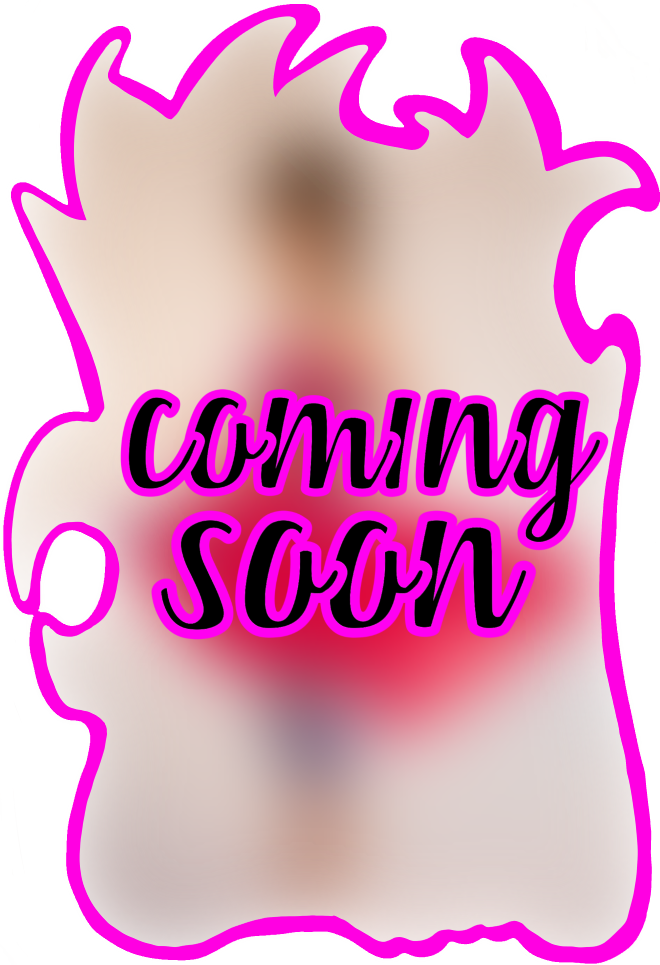
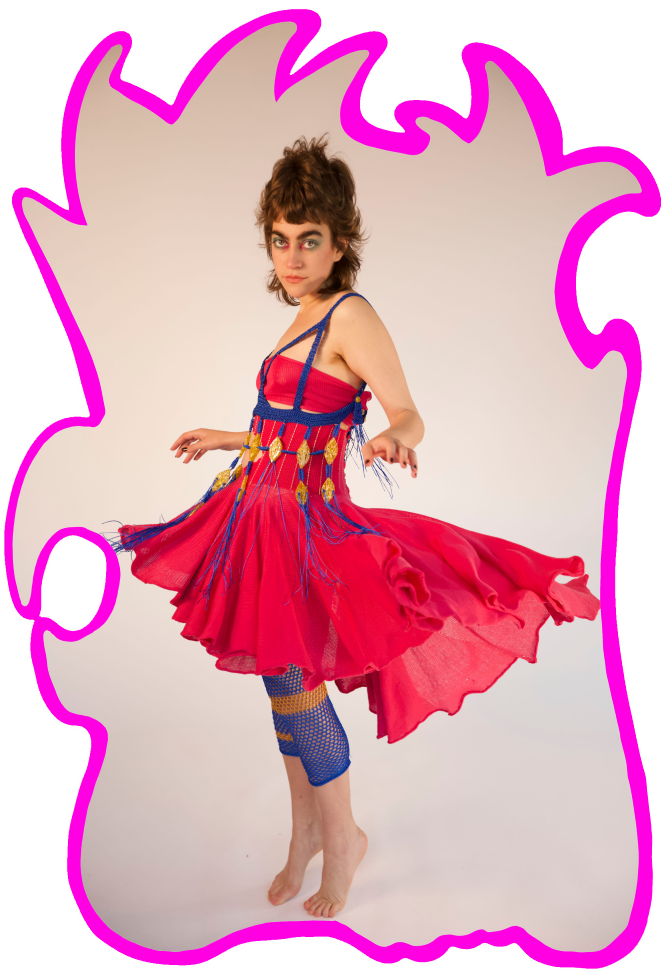
caballo andaluz fix, 2 projects on mobile fix

diff --git a/shop.html b/shop.html
@@ -1,0 +1,128 @@
+<html>
+<head>
+<link rel="icon" type="image/x-icon" href="favicon.ico">
+  <title>Shop - Acien</title>
+  <!-- fontawesome-->
+  <script src="https://kit.fontawesome.com/581d00b336.js" crossorigin="anonymous"></script>
+<!-- JavaScript Bundle with Popper -->
+<script src="https://cdn.jsdelivr.net/npm/bootstrap@5.1.3/dist/js/bootstrap.bundle.min.js" integrity="sha384-ka7Sk0Gln4gmtz2MlQnikT1wXgYsOg+OMhuP+IlRH9sENBO0LRn5q+8nbTov4+1p" crossorigin="anonymous"></script>
+<!-- CSS only -->
+<link href="https://cdn.jsdelivr.net/npm/bootstrap@5.1.3/dist/css/bootstrap.min.css" rel="stylesheet" integrity="sha384-1BmE4kWBq78iYhFldvKuhfTAU6auU8tT94WrHftjDbrCEXSU1oBoqyl2QvZ6jIW3" crossorigin="anonymous">
+<link rel="stylesheet" type="text/css" href="css/projects.css">
+<script type="text/javascript" src="js/main.js"></script>
+<meta name="viewport" content="width=device-width, initial-scale=1">
+<!-- Global site tag (gtag.js) - Google Analytics -->
+<script async src="https://www.googletagmanager.com/gtag/js?id=G-0M4GEK1QY7"></script>
+<script>
+  window.dataLayer = window.dataLayer || [];
+  function gtag(){dataLayer.push(arguments);}
+  gtag('js', new Date());
+
+  gtag('config', 'G-0M4GEK1QY7');
+</script>
+</head>
+<body>
+<!-- add an alert if you are on mozilla, it will look very weird for you, switch browser for your own good -->
+<!-- add alert rotate if rotated screen on phone ; if height is very low -->
+ 
+          <nav class="navbar navbar-expand-xl py-0 sticky-top white-bg-1">
+            <a class="navbar-brand d-xl-none" href="/"><img src="images/logo.png" style="max-height:70px;"></a>
+            <button class="navbar-toggler" type="button" data-toggle="collapse" data-target="#navbarSupportedContent" aria-controls="navbarSupportedContent" aria-expanded="false" aria-label="Toggle navigation">
+              <!-- The overlay -->
+    <div id="myNav" class="overlay">
+      <!-- Button to close the overlay navigation -->
+      <a href="javascript:void(0)" class="closebtn" onclick="closeNav()">&times;</a>
+      <!-- Overlay content -->
+      <div class="overlay-content">
+        <a href="/">Home</a>
+        <a href="projects">Projects</a>
+        <a href="contact">Contact</a>
+        <a href="about">About</a>
+        <a href="press">Press</a>
+      </div>
+    </div>
+    <!-- Use any element to open/show the overlay navigation menu -->
+    <span onclick="openNav()" style="font-size: 25px;"><i class="fas fa-bars"></i></span>
+            </button>
+        <div class="collapse navbar-collapse" id="myNavbarToggler7">
+            <ul class="navbar-nav mx-auto">
+                <li class="nav-item">
+                    <a class="nav-link" href="projects">Projects</a>
+                </li>
+                <li class="nav-item">
+                    <a class="nav-link" href="contact">Contact</a>
+                </li>
+                <a class="d-none d-lg-block" href="/"><img src="images/logo.png" style="max-height:70px;"></a>
+                <li class="nav-item">
+                    <a class="nav-link" href="about">About</a>
+                </li>
+                <li class="nav-item">
+                    <a class="nav-link" href="press">Press</a>
+                </li>
+            </ul>
+        </div>
+          </nav>
+        <div class="container">
+            <div class="row">
+                <div class="text-center">
+                  <p></p>
+                    <p class="white-purple">Review our first collection of items available for the purchase!
+                       Be one of the first ones to have some <i class="black">exclusive limited regenerative</i>
+                       (link to an article about regenerative fashion) products</p>
+                </div>
+            </div>
+            <div class="row">
+                <div class="col text-center">
+                    <a class="projectLink" data-bs-toggle="modal" data-bs-target="#exampleModal"><img class="fit_width_25 zoomIn2" src="shop/item.jpg"><p class="projName">SUPER SEXY MATERIAL YUMMY</p><p class="projDate">GLOVE</p></a>
+                    <!-- Button trigger modal -->
+  <!-- Modal -->
+  <div class="modal fade" id="exampleModal" tabindex="-1" aria-labelledby="exampleModalLabel" aria-hidden="true">
+    <div class="modal-dialog modal-xl bg-black">
+      <div class="modal-content">
+        <div class="modal-header">
+          <h5 class="modal-title" id="exampleModalLabel">Super sexy glove</h5>
+          <button type="button" class="btn-close" data-bs-dismiss="modal" aria-label="Close"></button>
+        </div>
+        <div class="modal-body">
+            <div class="container">
+            <div class="row">
+                <div class="col-md-4">
+                    <img class="fit_width" src="shop/item.jpg">
+                </div>
+                <div class="col-md-4">
+                    <p class="black">Wow, what an item</p>
+                    <p class="black">Incredible</p>
+                    <p class="black">Aweosme</p>
+                    <p class="black">Enquire! NOW!</p>
+                </div>
+                <div class="col-md-4">
+                  <iframe class="form" src="https://docs.google.com/forms/d/e/1FAIpQLSe49T0LJ4EB-JF_2XRqpAo_oIGvPYp7BvXqo-clVGkqdBFyTA/viewform?embedded=true" width="100%" height="100%" frameborder="0" marginheight="0" marginwidth="0">Loading…</iframe>
+                </div>
+            </div></div>
+        </div>
+        <div class="modal-footer">
+          <button type="button" class="btn btn-dark" data-bs-dismiss="modal">Close</button>
+        </div>
+      </div>
+    </div>
+  </div>
+  <!-- Modal End -->
+                </div>
+            </div>
+        </div>
+      </div>
+  <footer class="text-center text-white white-bg-1">
+    <!-- Grid container -->
+    <div class="container pt-2">
+      <!-- Section: Social media -->
+        <!-- Mail -->
+        <a href="mailto:info@acien.es"><i class="btn fa-solid fa-envelope fa-lg footerIcon"></i></a>
+        <!-- Instagram -->
+        <a href="https://instagram.com/aciensilvi" target="blank"><i class="btn fa-brands fa-instagram fa-lg footerIcon"></i></a>
+        <!-- Linkedin -->
+        <a href="https://www.linkedin.com/in/silvia-acien-parrilla-3a0296216" target="blank"><i class="btn fa-brands fa-linkedin fa-lg footerIcon"></i></a>
+      <!-- Section: Social media -->
+    </div>
+  </footer>
+    </body>
+</html>

diff --git a/projects.html b/projects.html
@@ -64,24 +64,17 @@
           </nav>
           <div class="container">
             <div class="row">
-  <div class="col-md text-center"><a class="projectLink" href="projects/evasion"><img class="fit_width zoomIn" src="images/12.png"><p class="projName">EVASION</p><p class="projDate">2022</p></a></div>
-  <div class="col-md text-center"><a class="projectLink" href="projects/menigilda"><img class="fit_width zoomIn" src="images/11.png"><p class="projName">MENIGILDA</p><p class="projDate">2022</p></a></div>
-  <div class="col-md text-center"><a class="projectLink" ><img class="fit_width zoomIn" src="images/10.png"><p class="projName">CABALLO ANDALUZ</p><p class="projDate">2021</p></a></div>
-              </div>
-              <div class="row">
-  <div class="col-md text-center"><a class="projectLink" href="projects/chelsea_football_club"><img class="fit_width zoomIn" src="images/8.png"><p class="projName">CHELSEA FC x NIKE</p><p class="projDate">2021</p></a></div>
-   <div class="col-md text-center"><a class="projectLink" href="projects/soportujar"><img class="fit_width zoomIn" src="images/7.png"><p class="projName">SOPORTUJAR</p><p class="projDate">2021</p></a></div>
-   <div class="col-md text-center"><a class="projectLink" href="projects/jaula_invisible"><img class="fit_width zoomIn" src="images/6.png"><p class="projName">JAULA INVISIBLE</p><p class="projDate">2020</p></a></div>
-  </div> 
-   <div class="row">
-  <div class="col-md text-center"><a class="projectLink" href="projects/gallina_de_ciudad"><img class="fit_width zoomIn" src="images/5.png"><p class="projName">GALLINA DE CIUDAD</p><p class="projDate">2020</p></a></div>
-  <div class="col-md text-center"><a class="projectLink" href="projects/overpopulated_world"><img class="fit_width zoomIn" src="images/4.png"><p class="projName">OVERPOPULATED WORLD</p><p class="projDate">2020</p></a></div>
-  <div class="col-md text-center"><a class="projectLink" href="projects/la_veneno"><img class="fit_width zoomIn" src="images/3.png"><p class="projName">LA VENENO</p><p class="projDate">2020</p></a></div>
-</div>  
-  <div class="row">
-   
-  <div class="col-md-4 text-center"><a class="projectLink" href="projects/francos_exhumation"><img class="fit_width zoomIn" src="images/2.png"><p class="projName">FRANCO'S EXHUMATION</p><p class="projDate">2019</p></a></div>
-  <div class="col-md-4 text-center"><a class="projectLink" href="projects/integrated_fight"><img class="fit_width zoomIn" src="images/1.png"><p class="projName">INTEGRATED FIGHT</p><p class="projDate">2018</p></a></div>
+  <div class="col-6 col-md-4 text-center"><a class="projectLink" href="projects/evasion"><img class="fit_width zoomIn" src="images/12.png"><p class="projName">EVASION</p><p class="projDate">2022</p></a></div>
+  <div class="col-6 col-md-4 text-center"><a class="projectLink" href="projects/menigilda"><img class="fit_width zoomIn" src="images/11.png"><p class="projName">MENIGILDA</p><p class="projDate">2022</p></a></div>
+  <div class="col-6 col-md-4 text-center"><a class="projectLink" href="projects/caballo_andaluz"><img class="fit_width zoomIn" src="images/10.png"><p class="projName">CABALLO ANDALUZ</p><p class="projDate">2021</p></a></div>
+  <div class="col-6 col-md-4 text-center"><a class="projectLink" href="projects/chelsea_football_club"><img class="fit_width zoomIn" src="images/8.png"><p class="projName">CHELSEA FC x NIKE</p><p class="projDate">2021</p></a></div>
+   <div class="col-6 col-md-4 text-center"><a class="projectLink" href="projects/soportujar"><img class="fit_width zoomIn" src="images/7.png"><p class="projName">SOPORTUJAR</p><p class="projDate">2021</p></a></div>
+   <div class="col-6 col-md-4 text-center"><a class="projectLink" href="projects/jaula_invisible"><img class="fit_width zoomIn" src="images/6.png"><p class="projName">JAULA INVISIBLE</p><p class="projDate">2020</p></a></div>
+  <div class="col-6 col-md-4 text-center"><a class="projectLink" href="projects/gallina_de_ciudad"><img class="fit_width zoomIn" src="images/5.png"><p class="projName">GALLINA DE CIUDAD</p><p class="projDate">2020</p></a></div>
+  <div class="col-6 col-md-4 text-center"><a class="projectLink" href="projects/overpopulated_world"><img class="fit_width zoomIn" src="images/4.png"><p class="projName">OVERPOPULATED WORLD</p><p class="projDate">2020</p></a></div>
+  <div class="col-6 col-md-4 text-center"><a class="projectLink" href="projects/la_veneno"><img class="fit_width zoomIn" src="images/3.png"><p class="projName">LA VENENO</p><p class="projDate">2020</p></a></div>
+  <div class="col-6 col-md-4 text-center"><a class="projectLink" href="projects/francos_exhumation"><img class="fit_width zoomIn" src="images/2.png"><p class="projName">FRANCO'S EXHUMATION</p><p class="projDate">2019</p></a></div>
+  <div class="col-6 col-md-4 text-center"><a class="projectLink" href="projects/integrated_fight"><img class="fit_width zoomIn" src="images/1.png"><p class="projName">INTEGRATED FIGHT</p><p class="projDate">2018</p></a></div>
         </div>
       </div>
       <!--

diff --git a/css/projects.css b/css/projects.css
@@ -149,12 +149,18 @@
     font-family: VelvetHeart;
     font-size: 80px;
     line-height: 0.6;
-  }
+  }  @media (max-width: 576px) {.projName{
+    font-size: 40px;
+    line-height: 0.5;
+  }}
   .projDate{
     font-family: VelvetHeart;
     font-size: 60px;
     line-height: 0.6;
-  }
+  }  @media (max-width: 576px) {.projDate{
+    font-size: 40px;
+    line-height: 0.3;
+  }}
   a.projectLink{
     color:white;
     text-decoration: none;
@@ -163,5 +169,62 @@
      1px -1px 0 #ff00e2,
      -1px 1px 0 #ff00e2,
       1px 1px 0 #ff00e2;
+      cursor: pointer;
   }
   a.projectLink:hover{color:black}
+  p.white-purple {
+    font-family: VelvetHeart;
+    font-size: 60px;
+    color: white;
+    text-shadow:
+    -1px -1px 0 #ff00e2,  
+     1px -1px 0 #ff00e2,
+     -1px 1px 0 #ff00e2,
+      1px 1px 0 #ff00e2;
+      line-height: .7;
+  }
+  p.black-purple {
+    font-family: VelvetHeart;
+    font-size: 60px;
+    color: black;
+    text-shadow:
+    -1px -1px 0 #ff00e2,  
+     1px -1px 0 #ff00e2,
+     -1px 1px 0 #ff00e2,
+      1px 1px 0 #ff00e2;
+      line-height: .7;
+  }
+  .fit_width_25 {
+    width: 25% !important;
+    height: auto !important;
+  }
+  p.black {
+    font-family: VelvetHeart;
+    font-size: 60px;
+    color: black;
+  }
+  .modal-title {
+    font-family: VelvetHeart;
+    font-size: 80px;
+    color: black;
+    line-height: 0.4;
+  }
+
+  .btn-dark {
+    font-family: VelvetHeart;
+    font-size: 60px;
+    line-height: 0.6;
+  }
+  .zoomIn2 {
+    -webkit-transform: scale(0.7);
+    transform: scale(0.7);
+    -webkit-transition: .3s ease-in-out;
+    transition: .3s ease-in-out;
+  }
+  .zoomIn2:hover {
+    -webkit-transform: scale(0.9);
+    transform: scale(0.9);
+  }
+  i.black {
+    color: black;
+  }

diff --git a/projects/caballo_andaluz.html b/projects/caballo_andaluz.html
@@ -29,6 +29,9 @@
   gtag('config', 'G-0M4GEK1QY7');
 </script>
 </head>
+<video playsinline loop="true" autoplay="autoplay" id="background-video" autoplay loop muted poster="../images/bg.jpg">
+	<source src="../videos/caballo.mp4" type="video/mp4">
+  </video>
 <body>
 	<nav>
 		<a class="brand-centered" href="../"><img src="../images/logo.png" style="max-height:70px;"></a>
